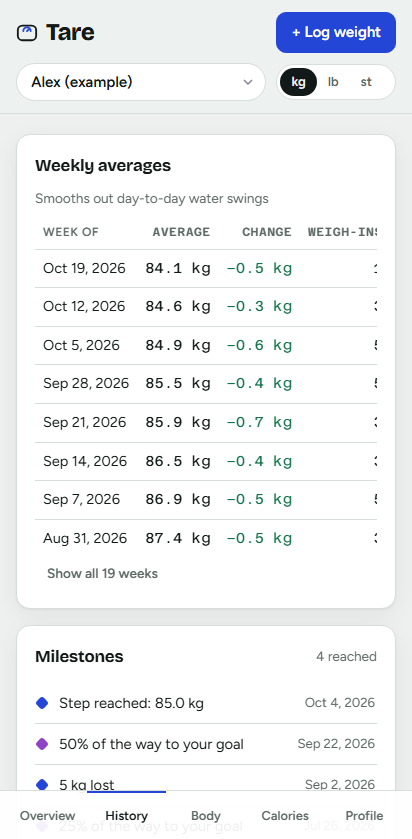
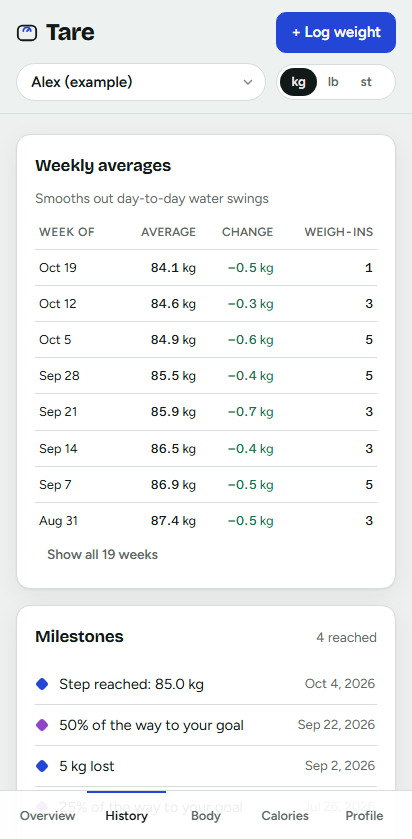
Polish the README for a public repository, and add the MIT licence (#60)
The README leads with a link to the app and two screenshots, groups the features by what they help with, and puts everything for people using Tare before the section for developers. The install screenshots are retaken from the current design. Tare is released under the MIT licence.

diff --git a/README.md b/README.md
@@ -2,97 +2,57 @@
 
 A modern weight tracker that runs in the browser and installs on your phone like an app. Your data stays on your device: no account, no server, no tracking.
 
-It was inspired by the iOS app *Monitor Your Weight* and rebuilt with a cleaner, modern design.
+**[Open Tare](https://rihami.github.io/tare-weight-tracker/)**, then add it to your home screen. It works offline, in English and Czech.
 
-**Open it at [rihami.github.io/tare-weight-tracker](https://rihami.github.io/tare-weight-tracker/)**, then add it to your home screen.
+<p>
+  <img src="public/screenshots/phone-overview.png" alt="Overview: the current weight as a big scale-style reading, the ruler to the goal, the On pace badge and the trend chart" width="280">
+  &nbsp;
+  <img src="public/screenshots/phone-history.png" alt="History: weekly averages with the change from week to week, and milestones reached" width="280">
+</p>
+
+Inspired by the iOS app *Monitor Your Weight*, rebuilt with a cleaner, modern design.
 
 ## Features
 
-- **Overview.** A big scale-style reading of your current weight, a ruler from start weight to goal, an "On pace / Behind pace" badge and a trend chart (1M to All).
-- **Re-plan when behind.** When you have fallen behind pace (judged on at least three weeks of weigh-ins), Overview shows what keeping the goal date now takes (and whether that is healthy), and offers a realistic new date from your recent pace. One tap moves it, with Undo; **Not now** hides it for two weeks.
-- **Statistics.** Total change, amount left, average change per day and per week, projected goal date and the weekly rate you need.
-- **Calorie calculator:**
-  - Resting metabolism, maintenance calories and a daily target for your chosen pace
-  - Two formulas: Mifflin–St Jeor (standard) or Katch–McArdle (when you know your body fat)
-  - Suggested protein, fat and carbs
-  - A table comparing paces (lose up to 1 kg a week, maintain, or gain) with the date you'd reach your goal at each
-  - Safety limits: never below 1,200 kcal (women) or 1,500 kcal (men), plus a warning for losing more than 1 % of body weight a week
-- **Health estimates.** BMI with category scale, healthy weight range, ideal weight (Devine formula), and body fat from BMI and from tape measurements (US Navy method).
-- **Body measurements.** Waist, hips, chest, neck, upper arm and thigh, with trend lines and waist-to-height ratio.
-- **History.** Every weigh-in by month. A colored dot shows whether that day was on pace (green), slower (amber) or moved away from the goal (red).
-- **Motivation.** Weekly averages that smooth out water swings, daily and weekly logging streaks, and milestones (every 5 kg / 10 lb / 1 st, 25/50/75 % of the goal, reaching the goal, moving into a better BMI category). Logging a weight that reaches a milestone says so.
-- **Events.** Mark medication, a holiday, an illness, exercise or a diet change. Each shows on the chart as a band, and History compares the trend before and since.
-- **Share your progress.** A picture of your change, trend, pace and latest milestone to save or send. It leaves weights off unless you turn them on, and it is made on your device.
-- **Patterns.** Spots plateaus (the trend flat for two weeks or more) and which days of the week you tend to weigh more, and explains both.
-- **Typo check.** A weight far from your trend (say 94.1 instead of 84.1) is questioned once before it is saved: correct it, or choose **Save anyway**. A normal day-to-day swing is never questioned.
-- **Quick log.** If you haven't weighed in today, the log form opens by itself when you open Tare (once a day; can be turned off). On an installed app, long-press the icon and choose **Log weight**.
-- **Safe with several windows.** Tabs and the installed app stay in sync, so one window can't undo changes made in another.
-- **Backup reminder.** A reminder two weeks after you start logging, and again whenever your last backup is 30 days old.
-- **PIN lock with encryption.** An optional 4–6 digit PIN, with auto-lock after the app has been in the background. With a PIN, saved data is encrypted (AES-256-GCM, key derived from the PIN with PBKDF2) and can only be opened with it. Downloaded backups are not encrypted.
-- **Daily reminder.** A reminder inside the app if you haven't weighed in by your chosen time, plus a calendar file (.ics) with a daily alert for your phone.
-- **App icon badge.** On an installed app, the icon can show the weight left to your goal, or a dot until today's weigh-in.
-- **English and Czech.** Chosen automatically from the browser, or set under Profile & goal → App settings. Numbers and dates follow the language (84.1 kg / 84,1 kg).
-- **Multiple profiles** and **units**: kg, lb, or stones and pounds, with cm or inches.
-- **Backup and restore.** A full backup file (.json), plus CSV export for spreadsheets.
-- **Import from other apps.** Reads a CSV from almost any weight app, such as Monitor Your Weight. It finds the date and weight columns, the date order and the unit on its own. It can also read an Apple Health export (`export.zip`), even one of several hundred MB. A preview shows what will be added before anything is saved.
-- **Installable and offline.** A Progressive Web App you can add to your home screen. It works without internet.
-- **Light and dark mode.** Automatic (follows your device) by default, or pick Light or Dark under Profile & goal → App settings → Appearance.
-- **Printing.** Any screen prints (or saves as a PDF) in light colours, without the buttons and tabs, for example History to show a doctor.
+**See where you are**
+- **Overview:** your weight as a big scale-style reading, a ruler from start to goal with your steps on the way, an On pace / Behind pace badge, and a trend chart (1 month to all time).
+- **Statistics:** total change, what's left, the average change per day and week, a likely goal date (as a range) and the weekly pace you need.
+- **History:** every weigh-in by month, each with a dot for on pace, slower, or away from the goal.
+- **Weekly averages, streaks and milestones** (every 5 kg / 10 lb / 1 st, a quarter of the way, reaching the goal, a better BMI category). Logging a weight that reaches one says so.
+- **Patterns:** plateaus, and the days of the week you tend to weigh more, each explained.
 
-## Development
+**Plan ahead**
+- **Goal and steps:** a goal weight and date, with smaller steps on the way.
+- **Re-plan when behind:** once you've fallen behind pace, Overview shows what keeping the date now takes (and whether that's healthy), and offers a realistic new date to move to in one tap.
+- **Calorie calculator:** resting and maintenance calories, a daily target for your pace (Mifflin–St Jeor, or Katch–McArdle when you know your body fat), suggested protein, fat and carbs, and a table of paces with the date each would reach your goal. It never suggests less than 1,200 kcal (women) or 1,500 kcal (men), and warns about losing more than 1 % of body weight a week.
+- **Health estimates:** BMI with its scale, a healthy weight range, ideal weight (Devine) and body fat from BMI or a tape measure (US Navy method).
 
-You need [Node.js](https://nodejs.org/) 22 or newer.
+**Log more than weight**
+- **Body measurements:** waist, hips, chest, neck, upper arm and thigh, with trend lines and waist-to-height ratio.
+- **Smart scale readings:** body fat, muscle and water, with how much of what you've lost was fat.
+- **Events:** medication, a holiday, an illness, exercise or a diet change, shown as bands on the chart, with the trend before and since.
+- **Cycle-aware weigh-ins:** with cycle tracking on, the days around a period (water retention) are marked and left out of the pace check and patterns.
 
-```bash
-npm install        # once
-npm run dev        # local dev server at http://localhost:5173
-npm test           # run the unit tests
-npm run e2e        # browser tests on the production build (run npm run build first)
-npm run build      # production build into dist/
-npm run preview    # serve the production build at http://localhost:4173
-```
+**Logging made easy**
+- **Quick log:** the log form opens by itself if you haven't weighed in today (once a day; can be turned off). On an installed app, long-press the icon and choose **Log weight**.
+- **Typo check:** a weight far from your trend (94.1 instead of 84.1) is questioned once before it's saved. A normal day-to-day swing never is.
+- **Reminders:** a daily reminder in the app if you haven't weighed in by your chosen time, a calendar file (.ics) with a daily alert, and an app icon badge.
+- **[Logging from a link](#logging-a-weight-from-a-link)** for Siri Shortcuts, NFC tags and automation apps.
 
-To install it as an app, run `npm run build` and `npm run preview`, open http://localhost:4173 in Chrome or Edge, and choose **Install app**. Offline mode only works from the production build, not from `npm run dev`.
+**Your data, kept safe**
+- **On your device only**, with a backup reminder, full backups (.json), CSV export, and **automatic backups** to a folder (for example one synced by OneDrive or Google Drive).
+- **PIN lock with encryption:** an optional 4–6 digit PIN, with auto-lock. Saved data is then encrypted (AES-256-GCM, key from the PIN with PBKDF2); downloaded backups are not, so keep them somewhere private. Face ID or a fingerprint can unlock it where the device supports it.
+- **Import from other apps:** a CSV from almost any weight app (it finds the columns, date order and unit itself) or an Apple Health export, with a preview before anything is saved.
+- **[Two devices](#using-tare-on-two-devices):** merge a backup from another device into this one.
+- **Undo** for deletes and merges, and several windows stay in sync.
 
-### Project structure
-
-```
-src/
-  i18n/        translations: en.ts is the reference, cs.ts must cover every key (checked by TypeScript and tests)
-  lib/         calculations: units, dates, BMI/body fat, calories, stats, insights, PIN hashing (all unit-tested)
-  data/        saved-data format and upgrades (schema.ts), storage, backups, example data
-  ui/          screens (views/), chart, entry dialog, small DOM helpers
-  app.ts       app state shared by the screens
-  main.ts      start-up, navigation, install and update prompts
-public/        icons (regenerate with `npm run icons`) and the install dialog's screenshots (`npm run build`, then `npm run screenshots`)
-.github/       CI: type-check, tests and build on every push
-```
-
-### Browser tests and checks
-
-`npm run e2e` runs Playwright tests in Chromium at desktop and phone size, and in WebKit (Safari's engine) at iPhone size. They cover the main flows, including logging a weight, units, the PIN lock, import, Czech and offline use. A few Chrome-only features (saving backups to a folder, the virtual authenticator for Face ID unlock) are tested in Chromium only. First run `npx playwright install chromium webkit` once, and `npm run build` before each run.
-
-The same command runs the layout check, `scripts/visual-audit.js`, on every screen. It runs at 320, 414, 768 and 1440 px wide, in light and dark mode, in English and Czech. It looks for sideways scrolling, elements off the screen, cut-off or covered text, text drawn across a bar or badge, and contrast below WCAG AA. You can also paste the script into the browser console and run `await tareAudit()`.
-
-On every pull request, GitHub Actions runs the unit tests, the browser tests and Lighthouse. Lighthouse must score 100 for accessibility and at least 90 for best practices. Its report is saved with the run. Dependabot opens weekly pull requests for package and GitHub Actions updates.
-
-**Screenshot tests** (`e2e/screens.spec.ts`) compare each screen with a reference image, at desktop and phone size and in dark mode, with the clock fixed to one day so the example data looks the same every run. Fonts render differently on each operating system, so the references are made on Linux and compared only there; on Windows and macOS these tests are skipped.
-
-- **If a change is meant to look different**, update the references: put `[update screenshots]` in a commit message, or run **Update screenshots** from the Actions tab on your branch. The workflow commits the new images to the branch. Its own commit doesn't start the other checks, so push again (or re-run them) afterwards.
-- **When they fail**, the report saved with the run shows the expected image, the actual one, and the difference.
-
-### Adding a language
-
-1. Copy `src/i18n/cs.ts` to a new file (for example `de.ts`) and translate every value. Keep the `{placeholders}` and give plural entries the forms the language needs (`one`, `few`, `many`, `other`).
-2. Register it in `DICTS` and `detectLang()` in `src/i18n/index.ts`, add it to `Lang` in `src/data/schema.ts`, and add its name to `LANG_NAMES` in `src/ui/views/settings.ts`.
-3. Run `npm test`. The tests check that no key is missing and that placeholders match.
-
-### Data and future sync
-
-- All saved data goes through the `Store` interface in `src/data/storage.ts`. It uses IndexedDB today, falling back to localStorage. A cloud store for accounts and sync can be added later as another `Store`, without changing the screens.
-- The saved format has a version number (`SCHEMA_VERSION` in `src/data/schema.ts`). When the format changes, `migrate()` upgrades older data and backup files. Data from the original single-file version of Tare is picked up automatically.
-- Every weigh-in has an id and an `updatedAt` time, which a future sync would need to merge devices.
-- With a PIN, `createSaver` encrypts before saving (`src/lib/crypto.ts`) and `loadData` returns the encrypted envelope as `locked`; the lock screen decrypts it. Decrypting is the PIN check, so a wrong PIN can never produce data.
+**Everything else**
+- **Multiple profiles**, each with its own unit: kg, lb, or stones and pounds, with cm or inches.
+- **English and Czech**, with numbers and dates to match (84.1 kg / 84,1 kg).
+- **Light and dark mode**, following your device or chosen in the app.
+- **Share your progress** as a picture, without weights unless you add them.
+- **Printing:** any screen prints, or saves as a PDF, in light colours without the buttons (History for a doctor, say).
+- **Installable and offline:** a Progressive Web App that works without internet.
 
 ## Using Tare on two devices
 
@@ -104,7 +64,7 @@ There's no account or server, so each device keeps its own data. To bring them t
 - **This device keeps** its settings, PIN and language.
 - **Undo** takes a merge back for a few seconds afterwards.
 
-Live sync between devices is discussed in issue #19.
+Live sync between devices is discussed in [issue #19](https://github.com/RihaMi/tare-weight-tracker/issues/19).
 
 ## Logging a weight from a link
 
@@ -121,39 +81,85 @@ For example: `https://rihami.github.io/tare-weight-tracker/?log=84.2`
 
 **Android:** an automation app (for example Tasker), a home-screen shortcut or an NFC tag on the scale can open the link. The installed app and Chrome share their data, so the weigh-in lands in your usual Tare.
 
-**iPhone (Shortcuts and Siri):** make a shortcut with **Ask for Input** (Number, "Weight?"), then **URL** `https://…/?log=` followed by the answer, then **Open URLs**, and name it "Log my weight". Siri then runs it by name. One catch: iOS keeps a Home Screen web app's data separate from Safari's, and Shortcuts opens links in Safari. So this works if you use Tare in Safari, but not with Tare added to the Home Screen.
-
-## Putting it online
-
-Tare is a static site: `npm run build` produces `dist/`, which any static host can serve. It needs HTTPS for the app install, offline mode and the icon shortcut to work, so test those on a real phone only once it's hosted.
-
-**GitHub Pages (how Tare is published)**
-
-`.github/workflows/pages.yml` builds the app and publishes it to [rihami.github.io/tare-weight-tracker](https://rihami.github.io/tare-weight-tracker/) on every merge into `main`, after the type check and unit tests pass. It can also be run from the Actions tab (**Deploy to GitHub Pages → Run workflow**). The build uses relative paths, so it works from the `/tare-weight-tracker/` sub-path. GitHub Pages doesn't read `public/_headers` (see below); the content security policy still applies, because it's part of the page.
-
-Another host can be used instead, for example to keep the repository private:
-
-**Cloudflare Pages (free, works with a private repository)**
-
-1. Sign in at [dash.cloudflare.com](https://dash.cloudflare.com) and open **Workers & Pages → Create → Pages → Connect to Git**.
-2. Allow access to this repository only, then pick it.
-3. Build settings: framework preset **None**, build command `npm run build`, output directory `dist`. Under environment variables, add `NODE_VERSION` = `24`.
-4. **Save and Deploy.** The site gets an address like `https://tare-weight-tracker.pages.dev`. Every merge into `main` updates it, and every pull request gets its own preview address.
-
-Netlify works the same way: **Add new site → Import an existing project**, with the same build command and `dist` as the publish directory.
-
-Cloudflare Pages and Netlify read `public/_headers`. It sets security headers (no framing, no referrer, no camera or location access) and caching: the built files are kept for a year, while the page and service worker are always checked for a new version. The build also adds a content security policy to the page (`vite.config.ts`). The page may load only its own files, and inline scripts are blocked.
-
-Anyone with the address can open the site, but each person's data stays in their own browser. Nothing is sent to the host.
+**iPhone (Shortcuts and Siri):** make a shortcut with **Ask for Input** (Number, "Weight?"), then **URL** `https://rihami.github.io/tare-weight-tracker/?log=` followed by the answer, then **Open URLs**, and name it "Log my weight". Siri then runs it by name. One catch: iOS keeps a Home Screen web app's data separate from Safari's, and Shortcuts opens links in Safari. So this works if you use Tare in Safari, but not with Tare added to the Home Screen.
 
 ## Privacy
 
-Tare makes no requests to other servers: no analytics, no ads, and the fonts are part of the app. Entries are stored only in your browser on your device. Clearing browser data deletes them, so use **Profile & goal → Download backup** now and then.
-
-## Fonts
-
-[Bricolage Grotesque](https://github.com/ateliertriay/bricolage), [Figtree](https://github.com/erikdkennedy/figtree) and [Azeret Mono](https://github.com/displaay/azeret), all under the SIL Open Font License 1.1, installed from [Fontsource](https://fontsource.org). Only the Latin and Latin Extended subsets are included (`src/fonts.css`).
-
-## Disclaimer
+Tare makes no requests to other servers: no analytics, no ads, and the fonts are part of the app. Entries are stored only in your browser on your device, and nothing is sent to the site that hosts it. Clearing browser data deletes them, so use **Profile & goal → Download backup** now and then, or turn on automatic backups.
 
 The BMI, body fat and calorie figures are general estimates, not medical advice.
+
+## Development
+
+You need [Node.js](https://nodejs.org/) 22 or newer.
+
+```bash
+npm install        # once
+npm run dev        # local dev server at http://localhost:5173
+npm test           # unit tests
+npm run build      # production build into dist/
+npm run e2e        # browser tests on the production build (build first)
+npm run preview    # serve the production build at http://localhost:4173
+```
+
+To install it as an app locally, run `npm run build` and `npm run preview`, open http://localhost:4173 in Chrome or Edge, and choose **Install app**. Offline mode only works from the production build, not from `npm run dev`.
+
+### Project structure
+
+```
+src/
+  i18n/        translations: en.ts is the reference, cs.ts must cover every key (checked by TypeScript and tests)
+  lib/         calculations: units, dates, BMI/body fat, calories, stats, insights, forecasts, PIN hashing (all unit-tested)
+  data/        saved-data format and upgrades (schema.ts), storage, backups, merging, example data
+  ui/          screens (views/), chart, entry dialog, small DOM helpers
+  app.ts       app state shared by the screens
+  main.ts      start-up, navigation, install and update prompts
+public/        icons (npm run icons) and the install dialog's screenshots (npm run build, then npm run screenshots)
+.github/       CI, browser tests, screenshot updates and the GitHub Pages deploy
+```
+
+### Tests and checks
+
+`npm run e2e` runs Playwright tests in Chromium at desktop and phone size, and in WebKit (Safari's engine) at iPhone size. They cover the main flows, including logging a weight, units, the PIN lock, import, Czech and offline use. A few Chrome-only features (saving backups to a folder, the virtual authenticator for Face ID unlock) are tested in Chromium only. First run `npx playwright install chromium webkit` once, and `npm run build` before each run.
+
+The same command runs the layout check, `scripts/visual-audit.js`, on every screen. It runs at 320, 414, 768 and 1440 px wide, in light and dark mode, in English and Czech. It looks for sideways scrolling, elements off the screen, cut-off or covered text, text drawn across a bar or badge, and contrast below WCAG AA. You can also paste the script into the browser console and run `await tareAudit()`.
+
+On every pull request, GitHub Actions runs the unit tests, the browser tests and Lighthouse. Lighthouse must score 100 for accessibility and at least 90 for best practices; its report is saved with the run. Dependabot opens weekly pull requests for package and GitHub Actions updates.
+
+**Screenshot tests** (`e2e/screens.spec.ts`) compare each screen with a reference image, at desktop and phone size and in dark mode, with the clock fixed to one day so the example data looks the same every run. Fonts render differently on each operating system, so the references are made on Linux and compared only there; on Windows and macOS these tests are skipped.
+
+- **If a change is meant to look different**, update the references: put `[update screenshots]` in a commit message, or run **Update screenshots** from the Actions tab on your branch. The workflow commits the new images to the branch. Its own commit doesn't start the other checks, so push again (or re-run them) afterwards.
+- **When they fail**, the report saved with the run shows the expected image, the actual one, and the difference.
+
+### Adding a language
+
+1. Copy `src/i18n/cs.ts` to a new file (for example `de.ts`) and translate every value. Keep the `{placeholders}` and give plural entries the forms the language needs (`one`, `few`, `many`, `other`).
+2. Register it in `DICTS` and `detectLang()` in `src/i18n/index.ts`, add it to `Lang` in `src/data/schema.ts`, and add its name to `LANG_NAMES` in `src/ui/views/settings.ts`.
+3. Run `npm test`. The tests check that no key is missing and that placeholders match.
+
+### Saved data
+
+- All saved data goes through the `Store` interface in `src/data/storage.ts`. It uses IndexedDB, falling back to localStorage. A cloud store for accounts and sync could be added as another `Store`, without changing the screens.
+- The saved format has a version number (`SCHEMA_VERSION` in `src/data/schema.ts`). When the format changes, `migrate()` upgrades older data and backup files. Data from the original single-file version of Tare is picked up automatically.
+- Every weigh-in has an id and an `updatedAt` time, which merging backups (and a future sync) uses to decide which copy is newer.
+- With a PIN, `createSaver` encrypts before saving (`src/lib/crypto.ts`) and `loadData` returns the encrypted envelope as `locked`; the lock screen decrypts it. Decrypting is the PIN check, so a wrong PIN can never produce data.
+
+### Hosting
+
+Tare is a static site: `npm run build` produces `dist/`, which any static host can serve. It needs HTTPS for the app install, offline mode and the icon shortcut to work.
+
+**GitHub Pages (how Tare is published).** `.github/workflows/pages.yml` builds the app and publishes it to [rihami.github.io/tare-weight-tracker](https://rihami.github.io/tare-weight-tracker/) on every merge into `main`, after the type check and unit tests pass. It can also be run from the Actions tab (**Deploy to GitHub Pages → Run workflow**). The build uses relative paths, so it works from the `/tare-weight-tracker/` sub-path.
+
+**Cloudflare Pages or Netlify** work too, also from a private repository:
+
+1. Cloudflare: sign in at [dash.cloudflare.com](https://dash.cloudflare.com), open **Workers & Pages → Create → Pages → Connect to Git**, and allow access to this repository only. Netlify: **Add new site → Import an existing project**.
+2. Build command `npm run build`, output directory `dist`, and the environment variable `NODE_VERSION` = `24` (on Cloudflare, framework preset **None**).
+3. Every merge into `main` updates the site, and every pull request gets its own preview address.
+
+Both read `public/_headers`, which sets security headers (no framing, no referrer, no camera or location access) and caching: built files are kept for a year, while the page and service worker are always checked for a new version. GitHub Pages doesn't read it. On every host, the build adds a content security policy to the page itself (`vite.config.ts`): it may load only its own files, and inline scripts are blocked.
+
+## Credits and licence
+
+Fonts: [Bricolage Grotesque](https://github.com/ateliertriay/bricolage), [Figtree](https://github.com/erikdkennedy/figtree) and [Azeret Mono](https://github.com/displaay/azeret), all under the SIL Open Font License 1.1, installed from [Fontsource](https://fontsource.org). Only the Latin and Latin Extended subsets are included (`src/fonts.css`).
+
+Tare is released under the [MIT licence](LICENSE).
